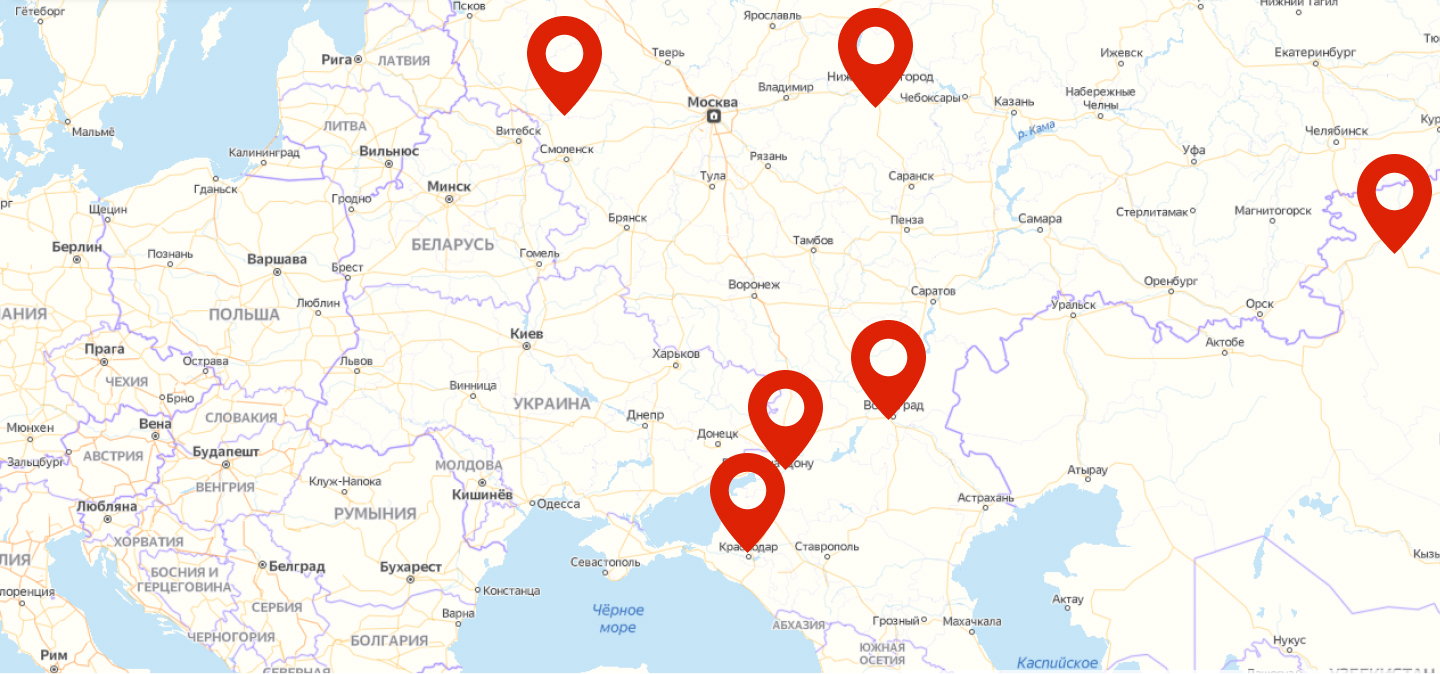
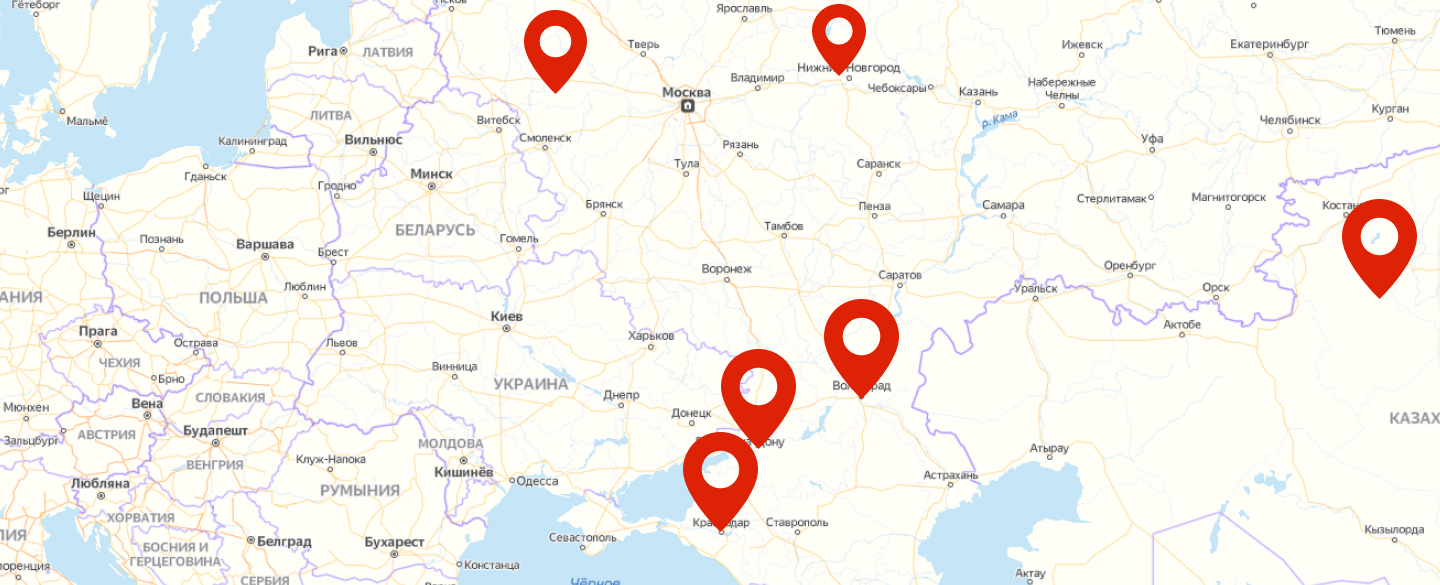
about

diff --git a/css/style.css b/css/style.css
@@ -1,2 +1,2 @@
-*{-webkit-box-sizing:border-box;box-sizing:border-box;margin:0;padding:0}.container{max-width:1200px;margin:0 auto}.header{background:url(../img/header/bg.jpg) center no-repeat;-webkit-background-size:cover;background-size:cover;padding-top:45px;padding-bottom:132px}.header__top{display:-webkit-box;display:-webkit-flex;display:-ms-flexbox;display:flex;-webkit-box-pack:justify;-webkit-justify-content:space-between;-ms-flex-pack:justify;justify-content:space-between;-webkit-box-align:center;-webkit-align-items:center;-ms-flex-align:center;align-items:center;margin-bottom:26px}.header__logo{display:-webkit-box;display:-webkit-flex;display:-ms-flexbox;display:flex;-webkit-box-align:center;-webkit-align-items:center;-ms-flex-align:center;align-items:center}.header__logo img{margin-right:122px}.header__social{display:-webkit-box;display:-webkit-flex;display:-ms-flexbox;display:flex;-webkit-box-align:center;-webkit-align-items:center;-ms-flex-align:center;align-items:center}.header__social-link{text-decoration:none;display:inline-block;width:35px;height:35px;margin-right:15px;-webkit-transition:.3s;-o-transition:.3s;transition:.3s}.header__social-link img{width:100%;height:100%;-o-object-fit:cover;object-fit:cover}.header__social-link:last-child{margin-right:25px}.header__social-link:hover{-webkit-transform:translateY(-2px);-ms-transform:translateY(-2px);transform:translateY(-2px)}.header__request{width:203px;height:40px;background:#135D96;border:2px solid #135D96;-webkit-border-radius:12px;border-radius:12px;display:-webkit-box;display:-webkit-flex;display:-ms-flexbox;display:flex;-webkit-box-align:center;-webkit-align-items:center;-ms-flex-align:center;align-items:center;-webkit-box-pack:center;-webkit-justify-content:center;-ms-flex-pack:center;justify-content:center;font-family:'Montserrat';text-decoration:none;font-style:normal;font-weight:500;font-size:20px;line-height:24px;color:#F1F0E1;-webkit-transition:.3s;-o-transition:.3s;transition:.3s}.header__request:hover{background:#fff;color:#135D96}.phone{font-family:Montserrat;font-style:normal;font-weight:500;font-size:20px;line-height:24px;-webkit-text-decoration-line:underline;text-decoration-line:underline;color:#2B2939}.nav{margin-bottom:235px}.nav__list{display:-webkit-box;display:-webkit-flex;display:-ms-flexbox;display:flex;list-style-type:none;-webkit-flex-wrap:wrap;-ms-flex-wrap:wrap;flex-wrap:wrap}.nav__item{margin-right:30px;font-family:'Philosopher';font-style:normal;font-weight:bold;font-size:25px;line-height:28px;color:#2B2939;margin-bottom:20px;position:relative}.nav__item:after{content:'';height:1px;width:0%;background:#2B2939;position:absolute;bottom:-5px;left:0;-webkit-transition:.3s;-o-transition:.3s;transition:.3s}.nav__item:hover:after{width:100%}.nav__link{color:inherit;text-decoration:none}.mission__title{font-family:Philosopher;font-style:normal;font-weight:bold;font-size:40px;line-height:45px;color:#2B2939;text-shadow:0px 0px 100px #000000;margin-bottom:10px}.mission__text{font-family:Montserrat;font-style:normal;font-weight:500;font-size:25px;line-height:30px;color:#2B2939;max-width:1118px}.statistics{background-image:url(../img/background.png);background-repeat:repeat;-webkit-background-size:cover;background-size:cover;position:relative;padding-top:41px;padding-bottom:36px}.statistics:after{content:'';position:absolute;background-color:rgba(114,214,255,0.1);top:0;bottom:0;left:0;right:0}.statistics__border{border:2px dashed #72D6FF;-webkit-border-radius:20px;border-radius:20px;max-width:1321px;margin:0 auto;padding-top:37px;padding-bottom:38px}.statistics__wrapper{display:-webkit-box;display:-webkit-flex;display:-ms-flexbox;display:flex;-webkit-box-align:center;-webkit-align-items:center;-ms-flex-align:center;align-items:center;-webkit-box-pack:justify;-webkit-justify-content:space-between;-ms-flex-pack:justify;justify-content:space-between}.statistics__item{display:-webkit-box;display:-webkit-flex;display:-ms-flexbox;display:flex;-webkit-box-orient:vertical;-webkit-box-direction:normal;-webkit-flex-direction:column;-ms-flex-direction:column;flex-direction:column;-webkit-box-align:center;-webkit-align-items:center;-ms-flex-align:center;align-items:center;width:33.333%}.statistics__value{width:135px;height:135px;display:-webkit-box;display:-webkit-flex;display:-ms-flexbox;display:flex;-webkit-box-align:center;-webkit-align-items:center;-ms-flex-align:center;align-items:center;-webkit-box-pack:center;-webkit-justify-content:center;-ms-flex-pack:center;justify-content:center;font-family:Philosopher;font-style:normal;font-weight:bold;font-size:100px;line-height:112px;color:#2B2939;background:url(../img/statistics/star.png) no-repeat center}.statistics__title{font-family:Philosopher;font-style:normal;font-weight:bold;font-size:35px;line-height:39px;color:#2B2939;margin-bottom:12px;position:relative}.statistics__title:after{content:'';position:absolute;left:50%;-webkit-transform:translateX(-50%);-ms-transform:translateX(-50%);transform:translateX(-50%);bottom:0;height:2;width:65%;-webkit-border-radius:50px;border-radius:50px;border:1px solid #0E72AE}.statistics__description{font-family:Montserrat;font-style:normal;font-weight:normal;font-size:20px;line-height:24px;text-align:center;color:#2B2939}.map img{width:100%}
+*{-webkit-box-sizing:border-box;box-sizing:border-box;margin:0;padding:0}.container{max-width:1200px;margin:0 auto}.border{border:2px dashed #72D6FF;-webkit-border-radius:20px;border-radius:20px;max-width:1321px;margin:0 auto;padding-top:37px;padding-bottom:38px}.title{font-family:Philosopher;font-style:normal;font-weight:bold;font-size:40px;line-height:45px;color:#2B2939;margin-bottom:25px;position:relative}.title:after{content:'';width:122px;height:3px;-webkit-border-radius:50px;border-radius:50px;background:#0E72AE;position:absolute;left:0;bottom:-5px}.header{background:url(../img/header/bg.jpg) center no-repeat;-webkit-background-size:cover;background-size:cover;padding-top:45px;padding-bottom:132px}.header__top{display:-webkit-box;display:-webkit-flex;display:-ms-flexbox;display:flex;-webkit-box-pack:justify;-webkit-justify-content:space-between;-ms-flex-pack:justify;justify-content:space-between;-webkit-box-align:center;-webkit-align-items:center;-ms-flex-align:center;align-items:center;margin-bottom:26px}.header__logo{display:-webkit-box;display:-webkit-flex;display:-ms-flexbox;display:flex;-webkit-box-align:center;-webkit-align-items:center;-ms-flex-align:center;align-items:center}.header__logo img{margin-right:122px}.header__social{display:-webkit-box;display:-webkit-flex;display:-ms-flexbox;display:flex;-webkit-box-align:center;-webkit-align-items:center;-ms-flex-align:center;align-items:center}.header__social-link{text-decoration:none;display:inline-block;width:35px;height:35px;margin-right:15px;-webkit-transition:.3s;-o-transition:.3s;transition:.3s}.header__social-link img{width:100%;height:100%;-o-object-fit:cover;object-fit:cover}.header__social-link:last-child{margin-right:25px}.header__social-link:hover{-webkit-transform:translateY(-2px);-ms-transform:translateY(-2px);transform:translateY(-2px)}.header__request{width:203px;height:40px;background:#135D96;border:2px solid #135D96;-webkit-border-radius:12px;border-radius:12px;display:-webkit-box;display:-webkit-flex;display:-ms-flexbox;display:flex;-webkit-box-align:center;-webkit-align-items:center;-ms-flex-align:center;align-items:center;-webkit-box-pack:center;-webkit-justify-content:center;-ms-flex-pack:center;justify-content:center;font-family:'Montserrat';text-decoration:none;font-style:normal;font-weight:500;font-size:20px;line-height:24px;color:#F1F0E1;-webkit-transition:.3s;-o-transition:.3s;transition:.3s}.header__request:hover{background:#fff;color:#135D96}.phone{font-family:Montserrat;font-style:normal;font-weight:500;font-size:20px;line-height:24px;-webkit-text-decoration-line:underline;text-decoration-line:underline;color:#2B2939}.nav{margin-bottom:235px}.nav__list{display:-webkit-box;display:-webkit-flex;display:-ms-flexbox;display:flex;list-style-type:none;-webkit-flex-wrap:wrap;-ms-flex-wrap:wrap;flex-wrap:wrap}.nav__item{margin-right:30px;font-family:'Philosopher';font-style:normal;font-weight:bold;font-size:25px;line-height:28px;color:#2B2939;margin-bottom:20px;position:relative}.nav__item:after{content:'';height:1px;width:0%;background:#2B2939;position:absolute;bottom:-5px;left:0;-webkit-transition:.3s;-o-transition:.3s;transition:.3s}.nav__item:hover:after{width:100%}.nav__link{color:inherit;text-decoration:none}.mission__title{font-family:Philosopher;font-style:normal;font-weight:bold;font-size:40px;line-height:45px;color:#2B2939;text-shadow:0px 0px 100px #000000;margin-bottom:10px}.mission__text{font-family:Montserrat;font-style:normal;font-weight:500;font-size:25px;line-height:30px;color:#2B2939;max-width:1118px}.statistics{background-image:url(../img/background.png);background-repeat:repeat;-webkit-background-size:cover;background-size:cover;position:relative;padding-top:78px;padding-bottom:87px}.statistics:after{content:'';position:absolute;background-color:rgba(114,214,255,0.1);top:0;bottom:0;left:0;right:0}.statistics__border{border:2px dashed #72D6FF;-webkit-border-radius:20px;border-radius:20px;max-width:1321px;margin:0 auto;padding-top:37px;padding-bottom:38px}.statistics__wrapper{display:-webkit-box;display:-webkit-flex;display:-ms-flexbox;display:flex;-webkit-box-align:center;-webkit-align-items:center;-ms-flex-align:center;align-items:center;-webkit-box-pack:justify;-webkit-justify-content:space-between;-ms-flex-pack:justify;justify-content:space-between}.statistics__item{display:-webkit-box;display:-webkit-flex;display:-ms-flexbox;display:flex;-webkit-box-orient:vertical;-webkit-box-direction:normal;-webkit-flex-direction:column;-ms-flex-direction:column;flex-direction:column;-webkit-box-align:center;-webkit-align-items:center;-ms-flex-align:center;align-items:center;width:33.333%}.statistics__value{width:135px;height:135px;display:-webkit-box;display:-webkit-flex;display:-ms-flexbox;display:flex;-webkit-box-align:center;-webkit-align-items:center;-ms-flex-align:center;align-items:center;-webkit-box-pack:center;-webkit-justify-content:center;-ms-flex-pack:center;justify-content:center;font-family:Philosopher;font-style:normal;font-weight:bold;font-size:100px;line-height:112px;color:#2B2939;background:url(../img/statistics/star.png) no-repeat center}.statistics__title{font-family:Philosopher;font-style:normal;font-weight:bold;font-size:35px;line-height:39px;color:#2B2939;margin-bottom:12px;position:relative}.statistics__title:after{content:'';position:absolute;left:50%;-webkit-transform:translateX(-50%);-ms-transform:translateX(-50%);transform:translateX(-50%);bottom:0;height:2;width:65%;-webkit-border-radius:50px;border-radius:50px;border:1px solid #0E72AE}.statistics__description{font-family:Montserrat;font-style:normal;font-weight:normal;font-size:20px;line-height:24px;text-align:center;color:#2B2939}.map{height:675px}.map img{width:100%;height:100% !important;-o-object-fit:cover;object-fit:cover}.about{background-image:url(../img/background.png);background-repeat:repeat;-webkit-background-size:cover;background-size:cover;position:relative;padding-top:53px;padding-bottom:44px}.about:after{content:'';position:absolute;background-color:rgba(114,214,255,0.1);top:0;bottom:0;left:0;right:0}.about__text{font-family:Montserrat;font-style:normal;font-weight:normal;font-size:25px;line-height:130.19%;color:#2B2939;margin-bottom:15px}
 /*# sourceMappingURL=style.css.map */

diff --git a/index.html b/index.html
@@ -1,5 +1,5 @@
 <!DOCTYPE html>
-<html lang="en">
+<html lang="ru">
 <head>
     <meta charset="UTF-8">
     <meta http-equiv="X-UA-Compatible" content="IE=edge">
@@ -96,10 +96,26 @@
         </div>
     </section>
 
-
     <div class="map">
         <img src="./img/map/map.jpg" alt="map">
     </div>
+
+    <section class="about">
+        <div class="border">
+            <div class="container">
+                <div class="about__wrapper">
+                    <h2 class="about__title title">О Хартии:</h2>
+                    <p class="about__text">С целью прекращения недобросовестных практик лицами, порочащими деловую репутацию сектора, разработана Концепция Хартии солидарности в сфере выдачи займов, погашаемых из средств материнского (семейного) капитала. </p>
+                    <p class="about__text">Идея Хартии состоит в том, чтобы объединить усилия кредитных потребительских кооперативов и сельскохозяйственных кредитных потребительских кооперативов<br>по противодействию нецелевому использованию средств материнского (семейного) капитала.</p>
+                    <p class="about__text">Мы полагаем, что практическая реализация идеи Хартии станет важным дополнением<br>к саморегулированию рынка кредитной кооперации, инициированного «снизу», то есть<br>со стороны самих участников рынка.</p>
+                    <p class="about__text">Мы рассчитываем в будущем получить поддержку нашей инициативы со стороны коллег из КПКи СКПК, а также всех добровольных национальных и территориальных ассоциаций, а также обязательных объединений (СРО).</p>
+                </div>
+            </div>
+        </div>
+    </section>
+
+
+    
 
     <script src="./scripts/main.js"></script>
 </body>

diff --git a/scss/blocks/_about.scss b/scss/blocks/_about.scss
@@ -1,0 +1,42 @@
+.about {
+
+    background-image: url(../img/background.png);
+    background-repeat: repeat;
+    background-size: cover;
+    position: relative;
+    padding-top: 53px;
+    padding-bottom: 44px;
+
+    &:after {
+        content: '';
+        position: absolute;
+        background-color: rgba(114, 214, 255, 0.1);
+        top: 0;
+        bottom: 0;
+        left: 0;
+        right: 0;
+    }
+
+    // .about__wrapper
+
+    &__wrapper {}
+
+    // .about__title
+
+    &__title {}
+
+    // .about__text
+
+    &__text {
+
+        font-family: Montserrat;
+        font-style: normal;
+        font-weight: normal;
+        font-size: 25px;
+        line-height: 130.19%;
+        color: #2B2939;
+        margin-bottom: 15px;
+    }
+}
+
+.title {}

diff --git a/scss/_settings.scss b/scss/_settings.scss
@@ -12,3 +12,34 @@
     margin: 0 auto;
 }
 
+.border {
+    border: 2px dashed #72D6FF;
+    border-radius: 20px;
+    max-width: 1321px;
+    margin: 0 auto;
+    padding-top: 37px;
+    padding-bottom: 38px;
+}
+
+.title {
+    font-family: Philosopher;
+    font-style: normal;
+    font-weight: bold;
+    font-size: 40px;
+    line-height: 45px;
+    color: #2B2939;
+    margin-bottom: 25px;
+    position: relative;
+
+    &:after {
+        content: '';
+        width: 122px;
+        height: 3px;
+        border-radius: 50px;
+        background: #0E72AE;
+        position: absolute;
+        left: 0;
+        bottom: -5px;
+    }
+
+}

diff --git a/scss/blocks/_statistics.scss b/scss/blocks/_statistics.scss
@@ -3,8 +3,8 @@
     background-repeat: repeat;
     background-size: cover;
     position: relative;
-    padding-top: 41px;
-    padding-bottom: 36px;
+    padding-top: 78px;
+    padding-bottom: 87px;
 
     &:after {
         content: '';

diff --git a/scss/blocks/_map.scss b/scss/blocks/_map.scss
@@ -1,6 +1,8 @@
 .map{
+    height: 675px;
     img {
         width: 100%;
-        
+        height: 100% !important;
+        object-fit: cover;
     }
 }

diff --git a/scss/style.scss b/scss/style.scss
@@ -6,3 +6,5 @@
 @import 'blocks/statistics';
 // подключение map
 @import 'blocks/map';
+// подключение about
+@import 'blocks/about';
